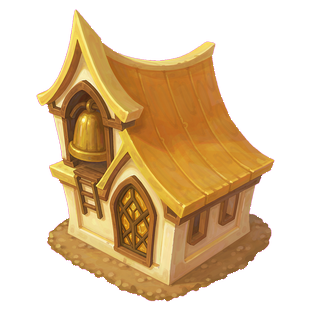
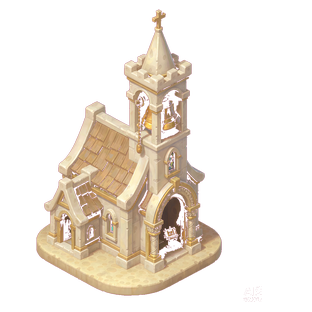
feat(art): 26座兵营西幻去中式+立绘母题重绘并接入
- 完全去除中式：26张全为尖顶石砌/拱门/罗马柱/哥特尖塔，无翘角飞檐宝塔
- 从兵种立绘汲取母题：狂战士斧/死灵骷髅灯/吸血鬼蝙蝠/幼龙蛋等
- 用户指定10处特殊形态全部落实：教堂/帐篷/靶场/罗马跑场/兽笼/墓地/哥特城堡/雷电/鸟巢/蛋
- 5基准+21放量，含15/31/32返工；揪出并修复15号被串成10号的MD5重复
- 批量清理18张抠底残留；规格40/40，回归123/123，工程零改动

diff --git a/docs/art/ART-BARRACKS-WESTERN-FANTASY-REDRAW.md b/docs/art/ART-BARRACKS-WESTERN-FANTASY-REDRAW.md
@@ -1,6 +1,6 @@
 # 占地之王 · 兵营「西方奇幻去中式 + 立绘母题重绘」方案
 
-> 状态：**待用户确认**（确认基准后才放量剩余 22 张）
+> 状态：**已交付（2026-11-25）**。5 张基准确认后放量 21 张，26 座全部重绘完成并覆盖 assets。详见 `.workbuddy/artifacts/兵营26座西幻去中式重绘交付-2026-11-25.md`。
 > 需求原话：「1、重绘以下建筑，从兵种立绘中汲取灵感：弓箭手、斥候、民兵、盾兵、骑士、狂战士、骷髅兵、战士、牧师（类似教堂）、卫兵、海盗、游侠（房屋改为帐篷）、长枪兵、神射手（改为类似靶场）、战车（类似罗马跑场）、驯兽师（突出兽笼表现）、刽子手、战斗法师、十字军、死灵法师（房屋改为类似墓地）、吸血鬼（哥特式城堡）、风暴法师（突出雷电）、凤凰（类似鸟类巢穴）、幼龙（突出蛋的表现）、战争泰坦、古龙。2、我们这是西方奇幻题材，完全去除中式建筑表现」
 > 日期：2026-11-25
 > 前置：`docs/art/ART-BARRACKS-FULL-REDRAW-PROPOSAL.md`（当前 40 张的上一版方案）
